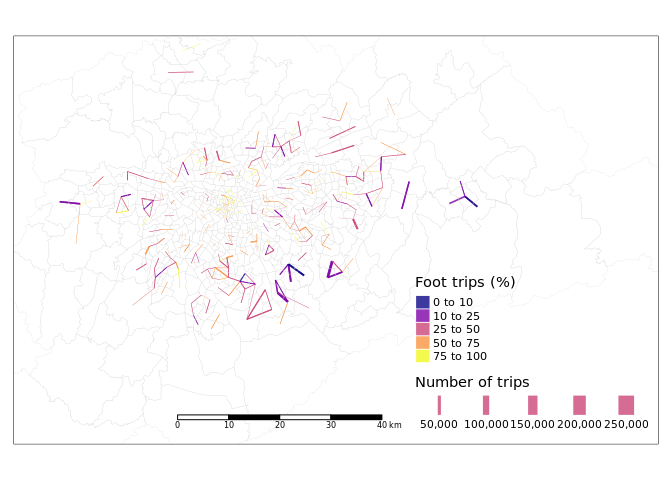
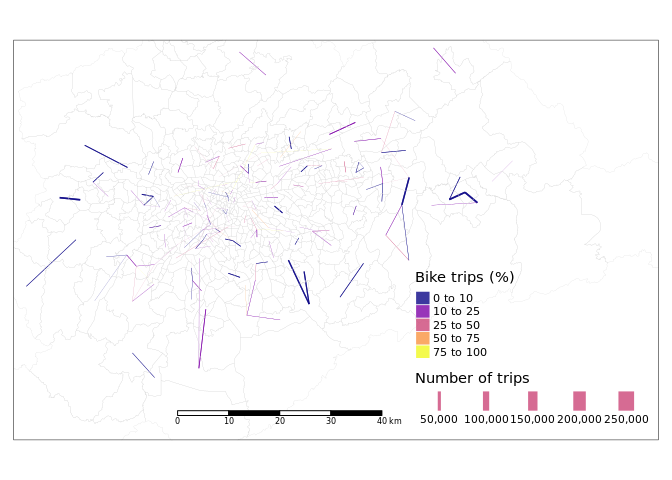
speed knit + new maps

diff --git a/exploring.md b/exploring.md
@@ -47,9 +47,9 @@ average trips’ distance is 5305.0981626.
 
 ![](exploring_files/figure-gfm/unnamed-chunk-6-1.png)<!-- -->
 
-### \[OFF\] Checking whether the coordinates are real or just sub-zones centroids.
+    #> `summarise()` regrouping output by 'dist_bands' (override with `.groups` argument)
 
-There are 3487 more households than households’ coordinates pairs.
+![](exploring_files/figure-gfm/unnamed-chunk-7-1.png)<!-- -->
 
 ### Basic temporal analysis
 
@@ -85,6 +85,10 @@ Now, the destinations for São Paulo City.
 
 ![](exploring_files/figure-gfm/unnamed-chunk-16-1.png)<!-- -->
 
+#### Distances by zone of residence
+
+![](exploring_files/figure-gfm/unnamed-chunk-17-1.png)<!-- -->
+
 #### Active travels and trip patterns
 
 (I removed the previous visualizations since they were not saying
@@ -98,32 +102,32 @@ Bike trips:
 
     #> Creating centroids representing desire line start and end points.
 
-![](exploring_files/figure-gfm/unnamed-chunk-18-1.png)<!-- -->
+![](exploring_files/figure-gfm/unnamed-chunk-19-1.png)<!-- -->
 
 Foot trips:
 
     #> Creating centroids representing desire line start and end points.
 
-![](exploring_files/figure-gfm/unnamed-chunk-19-1.png)<!-- -->
+![](exploring_files/figure-gfm/unnamed-chunk-20-1.png)<!-- -->
 
 Car trips, still too many lines (10,000) to account for \>92% of total
 car trips.
 
     #> Creating centroids representing desire line start and end points.
 
-![](exploring_files/figure-gfm/unnamed-chunk-20-1.png)<!-- -->
+![](exploring_files/figure-gfm/unnamed-chunk-21-1.png)<!-- -->
 
 Using the first 5,000 OD pairs, we have \>78% of all car trips.
 
     #> Creating centroids representing desire line start and end points.
 
-![](exploring_files/figure-gfm/unnamed-chunk-21-1.png)<!-- -->
+![](exploring_files/figure-gfm/unnamed-chunk-22-1.png)<!-- -->
 
 Using the biggest 1,000 pairs, we have \>45% of all car trips.
 
     #> Creating centroids representing desire line start and end points.
 
-![](exploring_files/figure-gfm/unnamed-chunk-22-1.png)<!-- -->
+![](exploring_files/figure-gfm/unnamed-chunk-23-1.png)<!-- -->
 
 ### Main routes by mode (takes a long time here) – rewriting this part.
 
@@ -140,23 +144,10 @@ single polygon very small. without st\_buffer, R does not even plot – “C
 stack usage too close to …”. These operations seems to be necessary in
 the other geometries.
 
-    #> although coordinates are longitude/latitude, st_intersection assumes that they are planar
-    #> Warning: attribute variables are assumed to be spatially constant throughout all
-    #> geometries
-    #> although coordinates are longitude/latitude, st_intersection assumes that they are planar
-    #> Warning: attribute variables are assumed to be spatially constant throughout all
-    #> geometries
-
-![](exploring_files/figure-gfm/unnamed-chunk-35-1.png)<!-- -->
-
 OD pairs that generate the most intensive usage of space (kms traveled
 in the routes) have more area allocated to the transport mode (both foot
 and car)
 
 Very strong pattern here.
 
-![](exploring_files/figure-gfm/unnamed-chunk-36-1.png)<!-- -->
-
 Some outliers in this graph, may be worth to check later…
-
-![](exploring_files/figure-gfm/unnamed-chunk-37-1.png)<!-- -->
